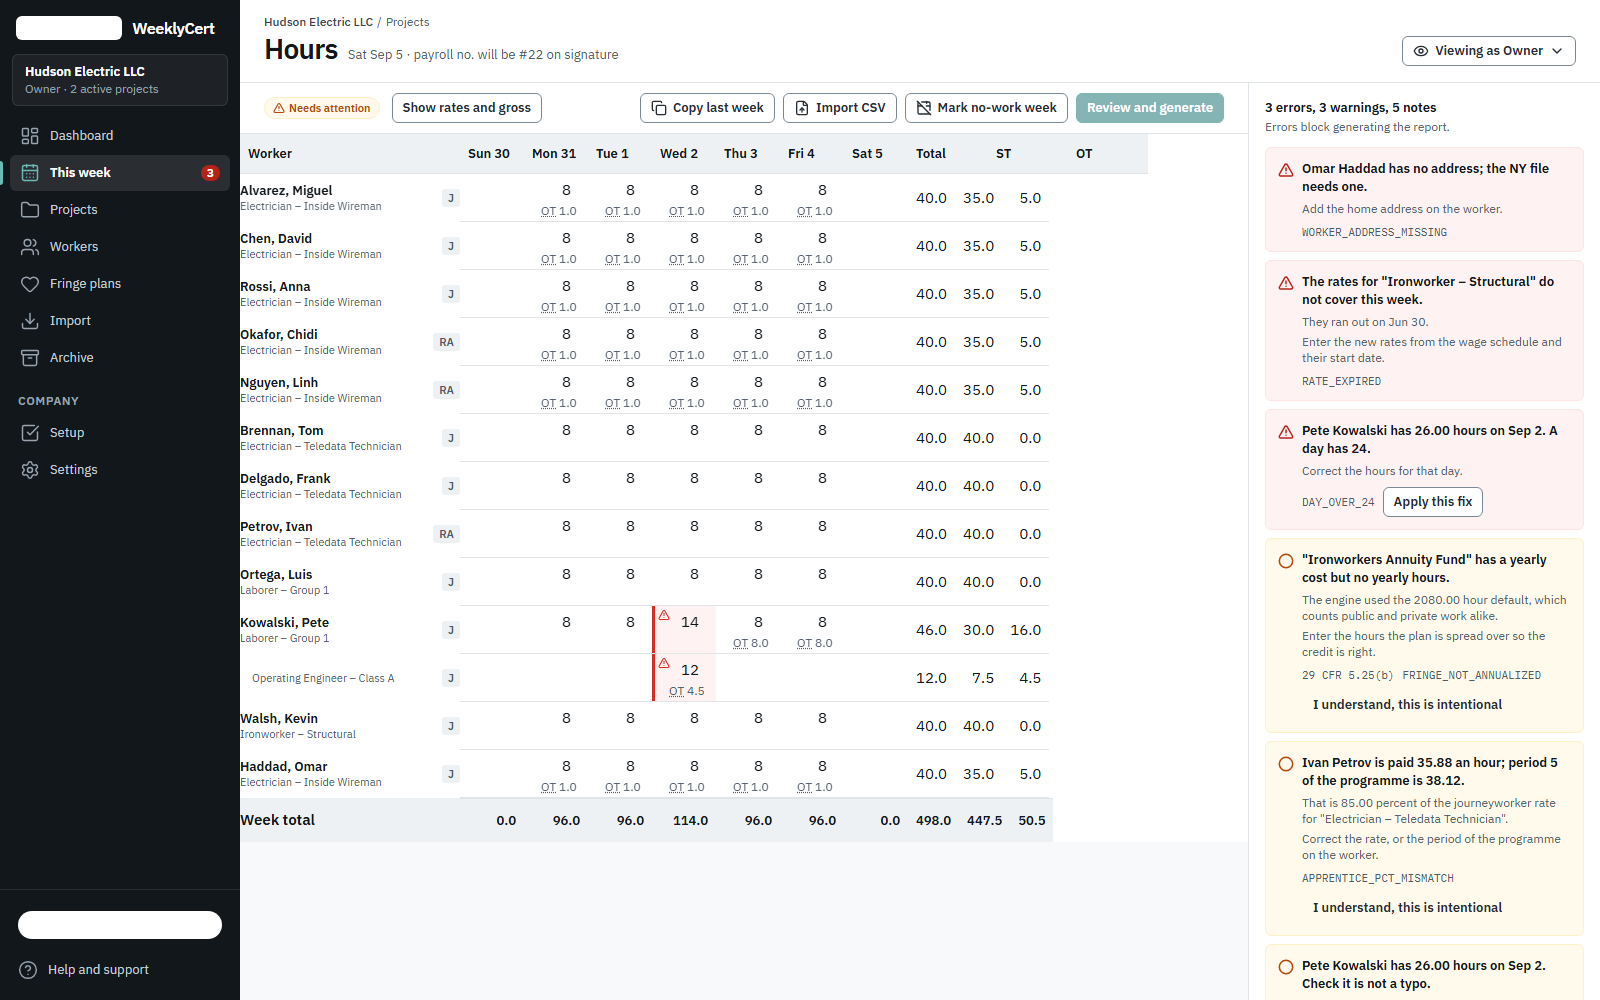
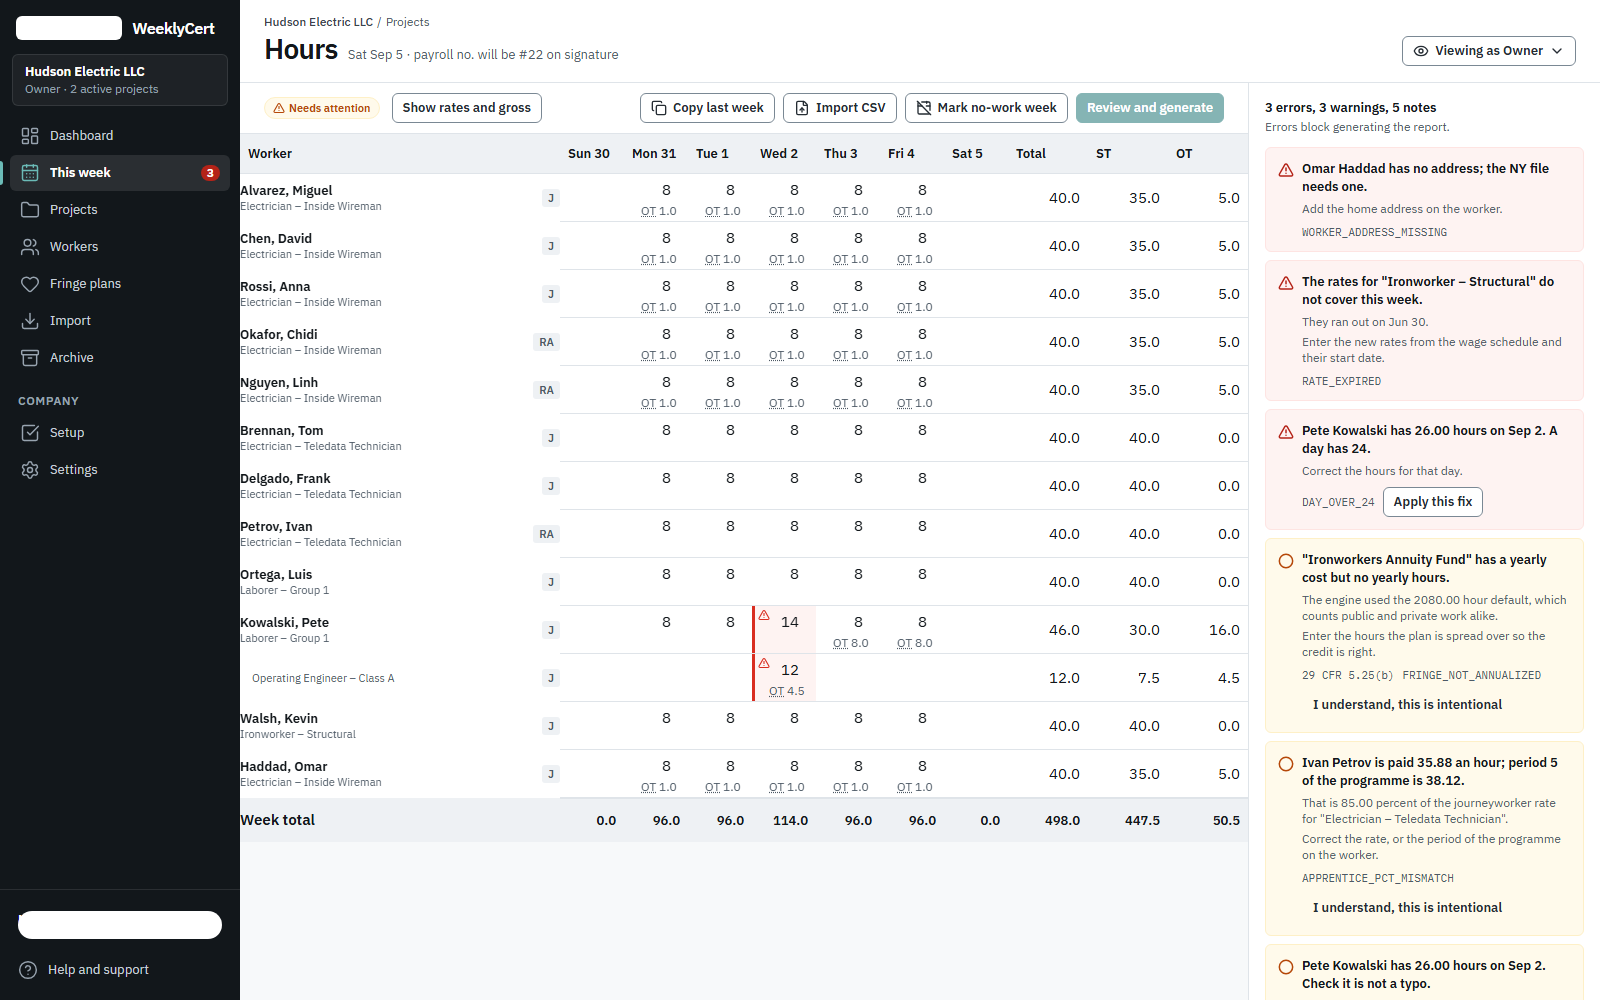
[3.2] web: one table, one set of columns
`grid` is a Tailwind utility as well as this feature's class, and grid.css never
declared a display, so the table rendered as display:grid. thead, tbody and
tfoot each became a grid item and laid its own rows out as a separate anonymous
table: the header sized the totals columns from its own 80 px cells, the body
sized them from the figures, and ST and OT stood to the right of the numbers
they name. The same bug left a band of empty table inside the card, which the
marketing hero then showed, because that picture is this screen.

Declaring display: table gives the columns back. The spare width a stretched
table used to spread over every column, which turned the 64 px day of 14 section
7 into 73 px, now goes to the worker column alone, the one holding text rather
than figures.

New test compares every header box against the body and totals cells under it
and fails if the last column stops short of the table edge.

diff --git a/apps/web/test/e2e/grid.spec.ts b/apps/web/test/e2e/grid.spec.ts
@@ -310,6 +310,52 @@ test('the findings panel refreshes under 300 ms after an entry (spec/03 §4.5)',
   await expect(page.getByText(/^Saved /)).toBeVisible()
 })
 
+test('every header sits over its own column, and the table fills its width', async ({ page }) => {
+  // The picture in the marketing hero is this screen, so a column that drifts
+  // away from its heading is on the front page too (16 §4 row 2). It drifted
+  // for a plain reason: `grid` is a Tailwind utility as well as our class, and
+  // the table was rendering as a CSS grid, with the header and the body sizing
+  // their columns separately.
+  await page.setViewportSize({ width: 1180, height: 1220 })
+  await page.goto(REVIEW_WEEK)
+  await page.locator('#cell-0-1').waitFor()
+
+  const columns = await page.locator('table.grid').evaluate((table) => {
+    const shown = (nodes: Element[]) =>
+      nodes.filter((node) => getComputedStyle(node).display !== 'none')
+    const box = (node: Element) => {
+      const rect = node.getBoundingClientRect()
+      return [Math.round(rect.left), Math.round(rect.right)]
+    }
+    const head = shown([...table.querySelectorAll('thead th')])
+    const body = shown([...table.querySelectorAll('tbody tr:first-child > *')])
+    const foot = shown([...table.querySelectorAll('tfoot tr > *')])
+    return head.map((cell, index) => ({
+      label: cell.textContent?.trim() ?? '',
+      head: box(cell),
+      body: body[index] ? box(body[index] as Element) : null,
+      foot: foot[index] ? box(foot[index] as Element) : null,
+    }))
+  })
+
+  // Worker, seven days, Total, ST and OT with the derived columns folded away.
+  expect(columns).toHaveLength(11)
+  for (const column of columns) {
+    expect(column.body, `${column.label} body`).toEqual(column.head)
+    expect(column.foot, `${column.label} totals`).toEqual(column.head)
+  }
+
+  // And no band of empty table to the right of the last column.
+  const edges = await page.locator('table.grid').evaluate((table) => {
+    const row = table.querySelector('tbody tr:first-child')
+    return {
+      row: Math.round((row as Element).getBoundingClientRect().right),
+      table: Math.round(table.getBoundingClientRect().right),
+    }
+  })
+  expect(edges.row).toBe(edges.table)
+})
+
 test('the two weights above the fold are preloaded (spec/19 §8)', async ({ page, request }) => {
   await page.goto(OPEN_WEEK)
 

diff --git a/apps/web/features/grid/grid.css b/apps/web/features/grid/grid.css
@@ -22,6 +22,15 @@
 }
 
 .grid {
+  /* `grid` is also a Tailwind utility. This file is unlayered and beats the
+     Tailwind layers, but it never declared `display`, so `.grid{display:grid}`
+     won: thead, tbody and tfoot each became a grid item and laid its own rows
+     out as a separate anonymous table. The header then sized its columns from
+     its own 80 px cells and the body sized them from the figures, which is why
+     ST and OT stood to the right of the numbers they name, and why the table
+     stopped short of its own right edge and left a band of white inside the
+     card. One table, one set of columns, only if the display is declared here. */
+  display: table;
   border-collapse: separate;
   border-spacing: 0;
   width: max-content;
@@ -66,11 +75,18 @@
 
 /* No zebra stripes: they fight hover and disabled states (spec/14 §7). */
 
+/* 220 px is the floor, and the 100% is what keeps the measured columns honest
+   (spec/14 §7): the table is at least as wide as the grid it sits in, and a
+   table hands spare width to every column at once, which turned the 64 px day
+   into 73 px on a wide screen. A column asking for 100% takes the slack by
+   itself, so the days stay 64 and the totals stay 80. This is the right column
+   to give it to: it is the only one holding text rather than figures, and a
+   name that fits is worth more than white space on the right. */
 .grid__worker {
   position: sticky;
   left: 0;
   z-index: 2;
-  width: 220px;
+  width: 100%;
   min-width: 220px;
   background: var(--surface);
 }
